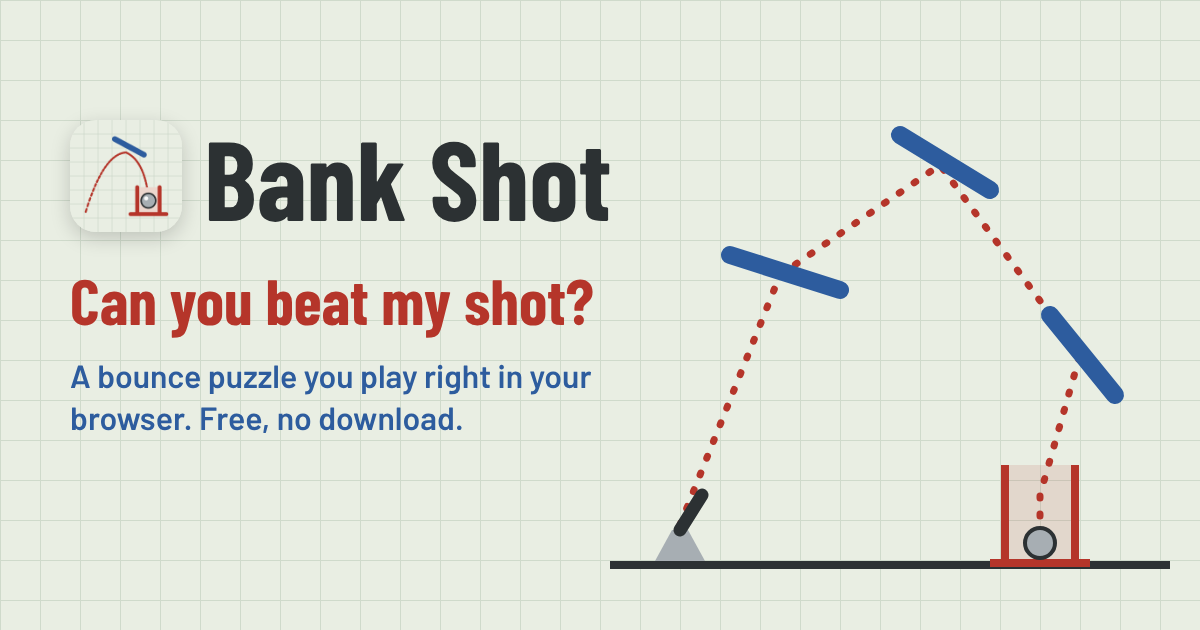
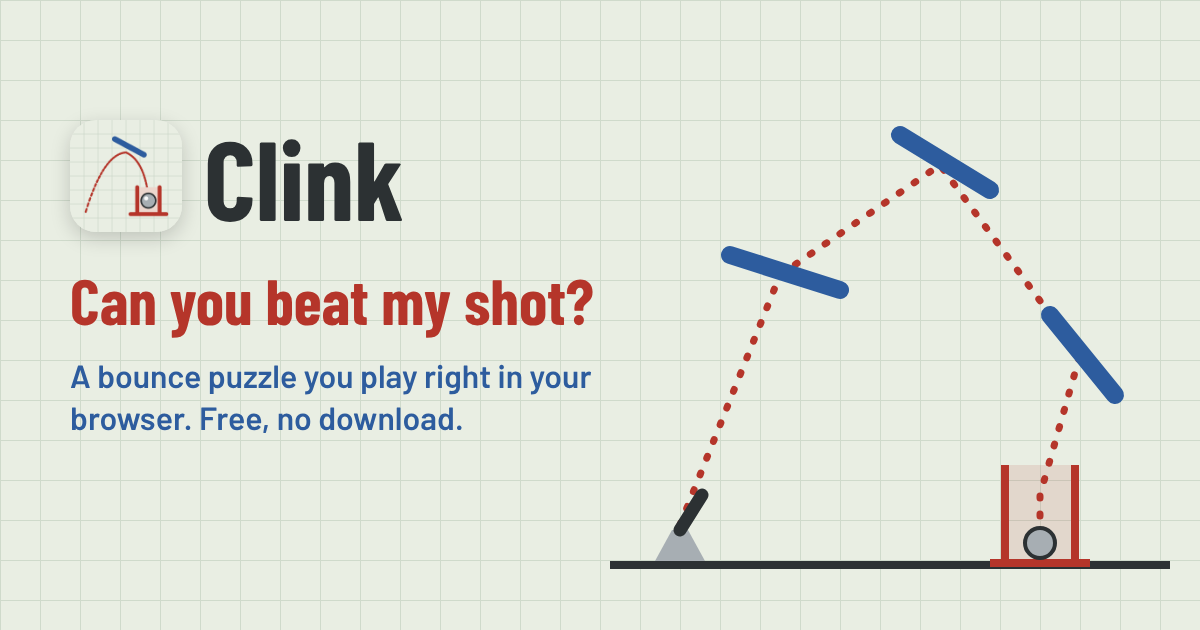
Rename the game to Clink everywhere players see it (0.74.0)
Claude-Session: https://claude.ai/code/session_01QokyQPwDzvxTm1vGK6GQJC

Changed region(s): [[0.185, 0.2111, 0.5242, 0.3619]]

diff --git a/public/index.html b/public/index.html
@@ -5,20 +5,20 @@
     <!-- Phone-app behaviour: fill the screen edge to edge (the app pads for the notch and home bar
          itself), and no pinch or double-tap zoom, so drags on the board aim and move bars instead. -->
     <meta name="viewport" content="width=device-width, initial-scale=1, maximum-scale=1, user-scalable=no, viewport-fit=cover" />
-    <title>Bank Shot</title>
+    <title>Clink</title>
     <meta name="description" content="Place the bars, launch the ball, bounce it into the glass." />
     <!-- The link preview chat apps show under a shared link (WhatsApp, iMessage…): picture from scripts/make-og.mjs. Absolute
          URLs, so keep them on the game's public address (game/challenge.ts SITE_URL). -->
     <meta property="og:type" content="website" />
-    <meta property="og:site_name" content="Bank Shot" />
-    <meta property="og:title" content="Bank Shot: can you beat my shot?" />
+    <meta property="og:site_name" content="Clink" />
+    <meta property="og:title" content="Clink: can you beat my shot?" />
     <meta property="og:description" content="A bounce puzzle you play right in your browser. Free, no download, no sign-up." />
     <meta property="og:image" content="https://racing-cobalt-ydmy8we-neerajgrotra-7631s-projects.vercel.app/og.png" />
     <meta property="og:image:width" content="1200" />
     <meta property="og:image:height" content="630" />
-    <meta property="og:image:alt" content="Bank Shot: a ball banking off three bars into a glass" />
+    <meta property="og:image:alt" content="Clink: a ball bouncing off three bars into a glass" />
     <meta name="twitter:card" content="summary_large_image" />
-    <meta name="twitter:title" content="Bank Shot: can you beat my shot?" />
+    <meta name="twitter:title" content="Clink: can you beat my shot?" />
     <meta name="twitter:description" content="A bounce puzzle you play right in your browser. Free, no download." />
     <meta name="twitter:image" content="https://racing-cobalt-ydmy8we-neerajgrotra-7631s-projects.vercel.app/og.png" />
 
@@ -26,7 +26,7 @@
     <link rel="manifest" href="/manifest.json" />
     <meta name="apple-mobile-web-app-capable" content="yes" />
     <meta name="mobile-web-app-capable" content="yes" />
-    <meta name="apple-mobile-web-app-title" content="Bank Shot" />
+    <meta name="apple-mobile-web-app-title" content="Clink" />
     <meta name="apple-mobile-web-app-status-bar-style" content="default" />
     <link rel="apple-touch-icon" href="/icons/icon-180.png" />
     <link rel="icon" type="image/png" sizes="192x192" href="/icons/icon-192.png" />
@@ -83,7 +83,7 @@
             box = document.createElement('div'); box.id = 'boot-error'; document.body.appendChild(box);
             box.addEventListener('click', function () { box.remove(); }); // tap to dismiss
           }
-          box.textContent = 'Bank Shot hit an error (tap to close):\n' + msg + '\n\n' + navigator.userAgent;
+          box.textContent = 'Clink hit an error (tap to close):\n' + msg + '\n\n' + navigator.userAgent;
         }
         window.__bankShotError = function (e) { show((e && (e.stack || e.message)) || String(e)); };
         window.addEventListener('error', function (e) {
@@ -107,7 +107,7 @@
   </head>
 
   <body>
-    <noscript>You need to enable JavaScript to play Bank Shot.</noscript>
-    <div id="root"><div id="boot"><img src="/icons/splash-icon.png" alt="Bank Shot" /><span>Loading…</span></div></div>
+    <noscript>You need to enable JavaScript to play Clink.</noscript>
+    <div id="root"><div id="boot"><img src="/icons/splash-icon.png" alt="Clink" /><span>Loading…</span></div></div>
   </body>
 </html>

diff --git a/game/share.ts b/game/share.ts
@@ -27,7 +27,7 @@ function hook(r: ShareResult, par: number, seed: string): string {
   if (under >= 2) return `🤯 ${golfName(r.bounces, par).toUpperCase()}! ${under} under par. I'm not even sorry.`;
   if (under === 1) return pick(['🐦 Birdie! One under par 😎', '🐦 Birdie! Better than the puzzle-maker 😎'], seed);
   if (r.stars === 3 && r.tries === 1) return pick(['🎯 First try. No big deal 😎', '🎯 Nailed it on the FIRST try!'], seed);
-  if (r.stars === 3) return pick(['🔥 Wow, I did it!', '🔥 Three stars. Perfect bank shot!', '🔥 Called it. Off every bar and in!'], seed);
+  if (r.stars === 3) return pick(['🔥 Wow, I did it!', '🔥 Three stars. A perfect clink!', '🔥 Called it. Off every bar and in!'], seed);
   if (r.stars === 2) return pick(['😅 Wow, I did it… eventually!', '🏀 In the glass! Not pretty, but in!'], seed);
   return pick(["🙈 It went in. Don't ask how.", '🫣 Ugly? Yes. In the glass? ALSO yes.'], seed);
 }
@@ -49,8 +49,8 @@ export function resultLine(r: ShareResult, par: number): string {
 export function shareMessage(what: ShareWhat, r: ShareResult, par: number): string {
   const seed = `${what.kind}${what.number}:${r.bounces}:${r.tries}`;
   const where = what.kind === 'daily'
-    ? `Bank Shot Daily #${what.number} · “${what.name}”`
-    : `Level ${what.number} · “${what.name}” in Bank Shot`;
+    ? `Clink Daily #${what.number} · “${what.name}”`
+    : `Level ${what.number} · “${what.name}” in Clink`;
   return [
     hook(r, par, seed),
     `I just banked it into the glass on ${where}`,
@@ -58,7 +58,7 @@ export function shareMessage(what: ShareWhat, r: ShareResult, par: number): stri
     ...(what.kind === 'daily' && what.streak > 1 ? [`🔥 ${what.streak}-day streak`] : []),
     '',
     dare(r, what, seed),
-    `I'm playing the coolest game… you should try it! 👉 Bank Shot ${SHARE_LINK}`,
+    `I'm playing the coolest game… you should try it! 👉 Clink ${SHARE_LINK}`,
   ].join('\n');
 }
 

diff --git a/components/splash/Intro.tsx b/components/splash/Intro.tsx
@@ -162,7 +162,7 @@ export function Intro({ onDone, onShown, onLeaving }: { onDone: () => void; onSh
 
           <Animated.View style={[styles.titleBlock, titleBlock]}>
             <View style={styles.titleRow}>
-              {'BANK SHOT'.split('').map((ch, i) => <Letter key={i} t={t} i={i} ch={ch} color={c.ink} reduced={reduced} />)}
+              {'CLINK'.split('').map((ch, i) => <Letter key={i} t={t} i={i} ch={ch} color={c.ink} reduced={reduced} />)}
             </View>
             <Text style={[styles.tagline, { color: c.muted }]}>Place the bars. Bounce it in.</Text>
           </Animated.View>
@@ -255,7 +255,7 @@ const styles = StyleSheet.create({
   base: { position: 'absolute', left: -10, right: -10, bottom: -3, height: 6, borderRadius: 3 },
   titleBlock: { alignItems: 'center', marginTop: 28 },
   titleRow: { flexDirection: 'row' },
-  letter: { fontFamily: FONTS.condensedBold, fontSize: 54, lineHeight: 58, letterSpacing: 1 },
+  letter: { fontFamily: FONTS.condensedBold, fontSize: 66, lineHeight: 70, letterSpacing: 6 },
   space: { width: 16 },
   version: { position: 'absolute', left: 0, right: 0, bottom: 34, textAlign: 'center', fontSize: 13, fontFamily: FONTS.body },
   tagline: { fontFamily: FONTS.bodyMedium, fontSize: 17, marginTop: 4 },

diff --git a/game/share.test.ts b/game/share.test.ts
@@ -6,7 +6,7 @@ const level = { kind: 'level' as const, number: 7, name: 'Four millimetres' };
 describe('share message', () => {
   it('names the level and the result, dares a friend and links the game', () => {
     const m = shareMessage(level, { bounces: 4, stars: 2, tries: 8, helped: false }, 2);
-    expect(m).toContain('Level 7 · “Four millimetres” in Bank Shot');
+    expect(m).toContain('Level 7 · “Four millimetres” in Clink');
     expect(m).toContain('★★☆ · 4 bounces (par 2) · 8 tries');
     expect(m).toContain(SHARE_LINK);
     expect(m).toContain("I'm playing the coolest game");
@@ -29,7 +29,7 @@ describe('share message', () => {
 
   it('daily: the puzzle number and streak, no level number', () => {
     const m = shareMessage({ kind: 'daily', number: 2, name: 'Ricochet', streak: 5 }, { bounces: 2, stars: 3, tries: 1, helped: false }, 2);
-    expect(m).toContain('Bank Shot Daily #2 · “Ricochet”');
+    expect(m).toContain('Clink Daily #2 · “Ricochet”');
     expect(m).toContain('🔥 5-day streak');
     expect(m).toMatch(/today/);
     expect(resultLine({ bounces: 1, stars: 3, tries: 1, helped: false }, 1)).toBe('★★★ · 1 bounce (par 1) · 1 try');

diff --git a/game/challenge.ts b/game/challenge.ts
@@ -23,6 +23,7 @@ export interface ChallengeShot { pieces: { x: number; y: number; deg: number }[]
 export interface Challenge { levelId: string; from: string; shot: ChallengeShot }
 
 const NAME_MAX = 20;
+// The scramble key stays 'bankshot' from before the rename to Clink: changing it would break challenge links already sent.
 const KEY = 'bankshot';
 
 // A tiny reversible scramble (xor with a fixed key, then base64url), so a link doesn't spell out where the bars go.
@@ -98,7 +99,7 @@ export function challengeGoal(from: string, bounces: number, every: string): str
 export function challengeMessage(opts: { levelNo: number; levelName: string; bounces: number; par: number; url: string }): string {
   const { levelNo, levelName, bounces, par, url } = opts;
   return [
-    `⚔ I got Bank Shot level ${levelNo} “${levelName}” in ${bounces} bounce${bounces === 1 ? '' : 's'} (par ${par}).`,
+    `⚔ I got Clink level ${levelNo} “${levelName}” in ${bounces} bounce${bounces === 1 ? '' : 's'} (par ${par}).`,
     'Can you beat me? Tap to play, no download needed:',
     url,
   ].join('\n');

diff --git a/components/settings/RemindersSettings.tsx b/components/settings/RemindersSettings.tsx
@@ -57,7 +57,7 @@ export function RemindersSettings({ bare = false }: { bare?: boolean }) {
       </View>
       <Text style={[styles.note, { color: blocked ? c.red : c.muted, marginTop: 6 }]}>
         {blocked
-          ? `Notifications are off for ${inExpoGo ? 'Expo Go' : 'Bank Shot'}: turn them on in the iPhone's Settings, under ${inExpoGo ? 'Expo Go' : 'Bank Shot'}, Notifications.`
+          ? `Notifications are off for ${inExpoGo ? 'Expo Go' : 'Clink'}: turn them on in the iPhone's Settings, under ${inExpoGo ? 'Expo Go' : 'Clink'}, Notifications.`
           : 'At most one a day, and none once the day\'s puzzle is done.'}
         {inExpoGo && !blocked ? ' While testing in Expo Go they show as Expo Go.' : ''}
       </Text>

diff --git a/app/get.tsx b/app/get.tsx
@@ -24,7 +24,7 @@ export default function GetApp() {
   return (
     <View style={[styles.wrap, { backgroundColor: c.panel }]}>
       <Image source={require('../assets/splash-icon.png')} style={styles.icon} />
-      <Text style={[styles.title, { color: c.ink }]}>Get Bank Shot</Text>
+      <Text style={[styles.title, { color: c.ink }]}>Get Clink</Text>
       <Text style={[styles.body, { color: c.ink }]}>That was one level. The app has all {LEVELS.length} across five worlds, a new puzzle every day, and challenges for your friends.</Text>
       <Text style={[styles.free, { color: c.pencil }]}>Free on iPhone and Android.</Text>
       {store('App Store', APP_STORE_URL)}

diff --git a/game/tour.test.ts b/game/tour.test.ts
@@ -28,8 +28,8 @@ describe('guided tour', () => {
 
 describe('tour personalisation', () => {
   it('puts the name in, or leaves it out neatly', () => {
-    expect(withName('Welcome to Bank Shot{, name}', 'Sam')).toBe('Welcome to Bank Shot, Sam');
-    expect(withName('Welcome to Bank Shot{, name}', '  ')).toBe('Welcome to Bank Shot');
+    expect(withName('Welcome to Clink{, name}', 'Sam')).toBe('Welcome to Clink, Sam');
+    expect(withName('Welcome to Clink{, name}', '  ')).toBe('Welcome to Clink');
     expect(withName('Hi {name}!', '')).toBe('Hi there!');
     expect(withName('Ready{, name}?', 'Alexandria-Rose Montgomery')).toBe('Ready, Alexandria-Rose?');
   });

diff --git a/app/challenge.tsx b/app/challenge.tsx
@@ -52,7 +52,7 @@ export default function ChallengeScreen() {
         <Text style={[styles.title, { color: c.ink }]}>This challenge link doesn’t work</Text>
         <Text style={[styles.body, { color: c.muted }]}>It may have been cut short when it was copied. Ask for it again.</Text>
         <Pressable onPress={() => router.replace(web ? '/get' : '/')} accessibilityRole="button" style={[styles.go, { backgroundColor: c.red }]}>
-          <Text style={styles.goText}>{web ? 'Get Bank Shot' : 'Play Bank Shot'}</Text>
+          <Text style={styles.goText}>{web ? 'Get Clink' : 'Play Clink'}</Text>
         </Pressable>
       </View>
     );

diff --git a/app/_layout.tsx b/app/_layout.tsx
@@ -78,7 +78,7 @@ function AppRoot() {
                 contentStyle: { backgroundColor: c.panel },
               }}
             >
-              <Stack.Screen name="index" options={{ title: 'Bank Shot', headerShown: false }} />
+              <Stack.Screen name="index" options={{ title: 'Clink', headerShown: false }} />
               <Stack.Screen name="level/[id]" options={{ title: '' }} />
               <Stack.Screen name="daily" options={{ title: '' }} />
               <Stack.Screen name="challenge" options={{ title: '' }} />

diff --git a/game/reminders.ts b/game/reminders.ts
@@ -64,7 +64,7 @@ const OPENERS: Record<DailyTier, string[]> = {
   2: ['Easy does it', 'A quick one today', 'Two minutes, one glass'],
   3: ['Looks hard, has a way', 'A little trickier today', 'There is a way in'],
   4: ['A proper puzzle today', 'Think before you shoot', 'Not as easy as it looks'],
-  5: ["The week's toughest", 'Sunday special: the hard one', 'Bring your best bank shot'],
+  5: ["The week's toughest", 'Sunday special: the hard one', 'Bring your best trick shot'],
 };
 const EMOJI = ['🧩', '🎯', '🔑'];
 

diff --git a/game/tour.ts b/game/tour.ts
@@ -19,7 +19,7 @@ export interface TourPage {
 
 export const TOUR: TourPage[] = [
   {
-    picture: 'welcome', kicker: 'Welcome to Bank Shot{, name}', title: 'A game of precision',
+    picture: 'welcome', kicker: 'Welcome to Clink{, name}', title: 'A game of precision',
     body: 'Every bounce is real physics. Set the shot just right and the ball does exactly the same thing every time, so each try teaches you the next.',
   },
   {
